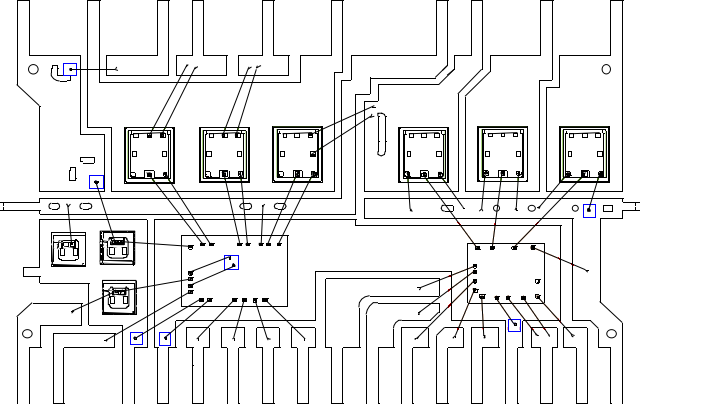
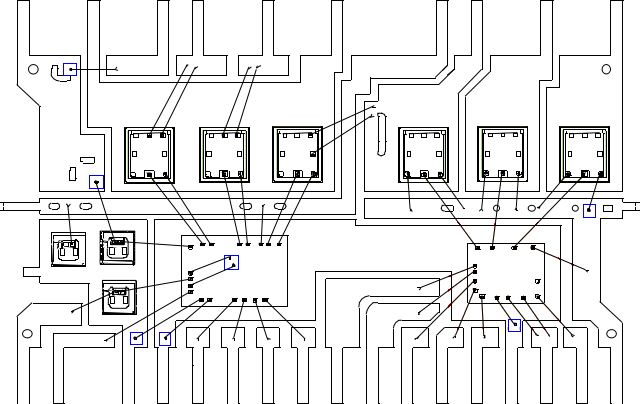
空洞位置图调整,空洞和重量echart下载功能

diff --git a/src/views/ms/record/kongdongEchart.vue b/src/views/ms/record/kongdongEchart.vue
@@ -40,10 +40,10 @@
 				<span>清空</span>
 			</button>
 		</div>
-		<div :style="{width: '60%', height: '250px',margin:'20px auto'}" class="picPanel">
+		<div :style="{width: '39%', height: '250px',marginLeft:'58%', marginTop:'30px'}" class="picPanel">
 			<chipImg :img-url="imgUrl" :img-option="imgOption" :click-able="clickAble" @positionName="positionChange"/>
 		</div>
-		<div id="echAppLine" :style="{width: '80%', height: '300px',margin:'0 auto',position:'relative'}"/>
+		<div id="echAppLine" :style="{width: '55%', height: '300px',position:'relative',marginTop:'-250px'}"/>
 		<el-form id="subEchart" class="form" label-width="90px" size="small">
 			<el-col :span="6">
 				<el-form-item label="批号:">
@@ -129,6 +129,7 @@ export default {
       param.productionName = this.chartParam.productionName.replace('J.', '')
       positionSelect(param).then(res => {
         this.positionOptions = res.data.positionList
+        this.positionOptions.splice(0, 0, '全部')
       })
       if (this.chartParam.productionName.indexOf('SX681') > -1) {
         this.imgUrl = 'SX681'
@@ -159,6 +160,7 @@ export default {
       }
       var _this = this
       _this.echarClear('echAppLine')
+      this.chartParam.lineType = this.chartParam.lineType.replace('全部', '')
       kongdongChart(this.chartParam).then(res => {
         if (res.data.code === 0 || res.data.code === '0') {
           if (res.data.data !== undefined && res.data.data !== null) {
@@ -198,6 +200,14 @@ export default {
           enterable: true, // 鼠标是否可进入提示框浮层中
           formatter: this.formatterHover// 修改鼠标悬停显示的内容
         },
+        toolbox: {
+          feature: {
+            dataView: { show: true, readOnly: false },
+            magicType: { show: true, type: ['line', 'bar'] },
+            restore: { show: true },
+            saveAsImage: { show: true }
+          }
+        },
         legend: {
           data: kongdongData.legend
         },
@@ -213,7 +223,7 @@ export default {
           }
         }, {
           type: 'value',
-          name: '完成率',
+          name: '空洞率',
           min: 0,
           // max: 150,
           // interval: 5,
@@ -379,6 +389,7 @@ export default {
 		-webkit-transition: border-color .2s cubic-bezier(.645,.045,.355,1);
 		transition: border-color .2s cubic-bezier(.645,.045,.355,1);
 		width: 100%;
+		overflow: hidden;
 	}
 	.el-col-9 div{
 		height:39px !important;

diff --git a/src/views/tool/chipimg/chipimg.vue b/src/views/tool/chipimg/chipimg.vue
@@ -80,17 +80,17 @@ export default {
 	.small{font-size: small;text-align:center;line-height: 22px;font-weight: 900;}
 
 	/**位置块 的位置*/
-	.sx680DI1_position{width:5%;height:9%;top: 57.5%;left: 7.2%;}
-	.sx680DI2_a_position{width:5%;height:8%;top: 57.5%;left: 14.2%;}
-	.sx680DI2_b_position{width:5%;height:8%;top: 69.5%;left: 14.5%;}
-	.sx680MOS3_a_position{width:7.2%;height:14%;top: 31.5%;left: 17.5%;}
-	.sx680MOS3_b_position{width:7.4%;height:14%;top: 31.5%;left: 28%;}
-	.sx680MOS4_a_position{width:7.4%;height:14%;top: 31.5%;left: 38.5%;}
-	.sx680MOS4_b_position{width:7.2%;height:14%;top: 31.5%;left: 56.4%;}
-	.sx680MOS5_a_position{width:7.4%;height:14%;top: 31.5%;left: 67.5%;}
-	.sx680MOS5_b_position{width:7.4%;height:14%;top: 31.5%;left: 79%;}
-	.sx680MIC6_position{width:15.4%;height:18%;top: 57.5%;left: 25.5%;}
-	.sx680MIC7_position{width:11.1%;height:16%;top: 59.5%;left: 66%;}
+	.sx680DI1_position{width:5.8%;height:9%;top: 57.5%;left: 8%;}
+	.sx680DI2_a_position{width:5.5%;height:8%;top: 57.5%;left: 15.8%;}
+	.sx680DI2_b_position{width:5.5%;height:8%;top: 69.5%;left: 16%;}
+	.sx680MOS3_a_position{width:8%;height:14%;top: 31.5%;left: 19.4%;}
+	.sx680MOS3_b_position{width:8%;height:14%;top: 31.5%;left: 31%;}
+	.sx680MOS4_a_position{width:8%;height:14%;top: 31.5%;left: 42.5%;}
+	.sx680MOS4_b_position{width:8%;height:14%;top: 31.5%;left: 62%;}
+	.sx680MOS5_a_position{width:8%;height:14%;top: 31.5%;left: 74.5%;}
+	.sx680MOS5_b_position{width:7.7%;height:14%;top: 31.5%;left: 87.5%;}
+	.sx680MIC6_position{width:16.4%;height:18%;top: 57.5%;left: 28.5%;}
+	.sx680MIC7_position{width:12.1%;height:16%;top: 59.5%;left: 73%;}
 
 	.sx681DI1_position{width:5.6%;height:10%;top: 53.5%;left: 85%;}
 	.sx681DI2_a_position{width:5.6%;height:10%;top:43%;left:7%;}

diff --git a/src/views/ms/record/measureweightEchart.vue b/src/views/ms/record/measureweightEchart.vue
@@ -2,14 +2,14 @@
 	<div class="app-container calendar-list-container">
 		<div class="condition-panel">
 			<el-form class="form" label-width="90px" size="small">
-				<el-col :span="5">
+				<el-col :span="4">
 					<el-form-item label="批号:">
 						<div class="condition">
 							<input v-model="chartParam.lotNo" type="text" placeholder="批号" class="el-input__inner">
 						</div>
 					</el-form-item>
 				</el-col>
-				<el-col :span="9">
+				<el-col :span="10">
 					<el-form-item label="机种名：">
             <el-select v-model="productionNo" @change="productionNoChange">
               <el-option
@@ -47,7 +47,7 @@
 				<span>清空</span>
 			</button>
 		</div>
-		<div id="echApp" :style="{width: '80%', height: '600px',float:'left'}"/>
+		<div id="echApp" :style="{width: '80%', height: '600px',position:'relative',margin:'0 auto'}"/>
 	</div>
 </template>
 
@@ -253,6 +253,14 @@ export default {
             axisPointer: {},
             enterable: true, // 鼠标是否可进入提示框浮层中
             formatter: this.formatterHover// 修改鼠标悬停显示的内容
+          },
+          toolbox: {
+            feature: {
+              dataView: { show: true, readOnly: false },
+              magicType: { show: true, type: ['line', 'bar'] },
+              restore: { show: true },
+              saveAsImage: { show: true }
+            }
           },
           legend: {
             data: ['平均重量', '测量值', '设定管理下限', '设定管理上限', '工程管理上限', '工程管理下限']
